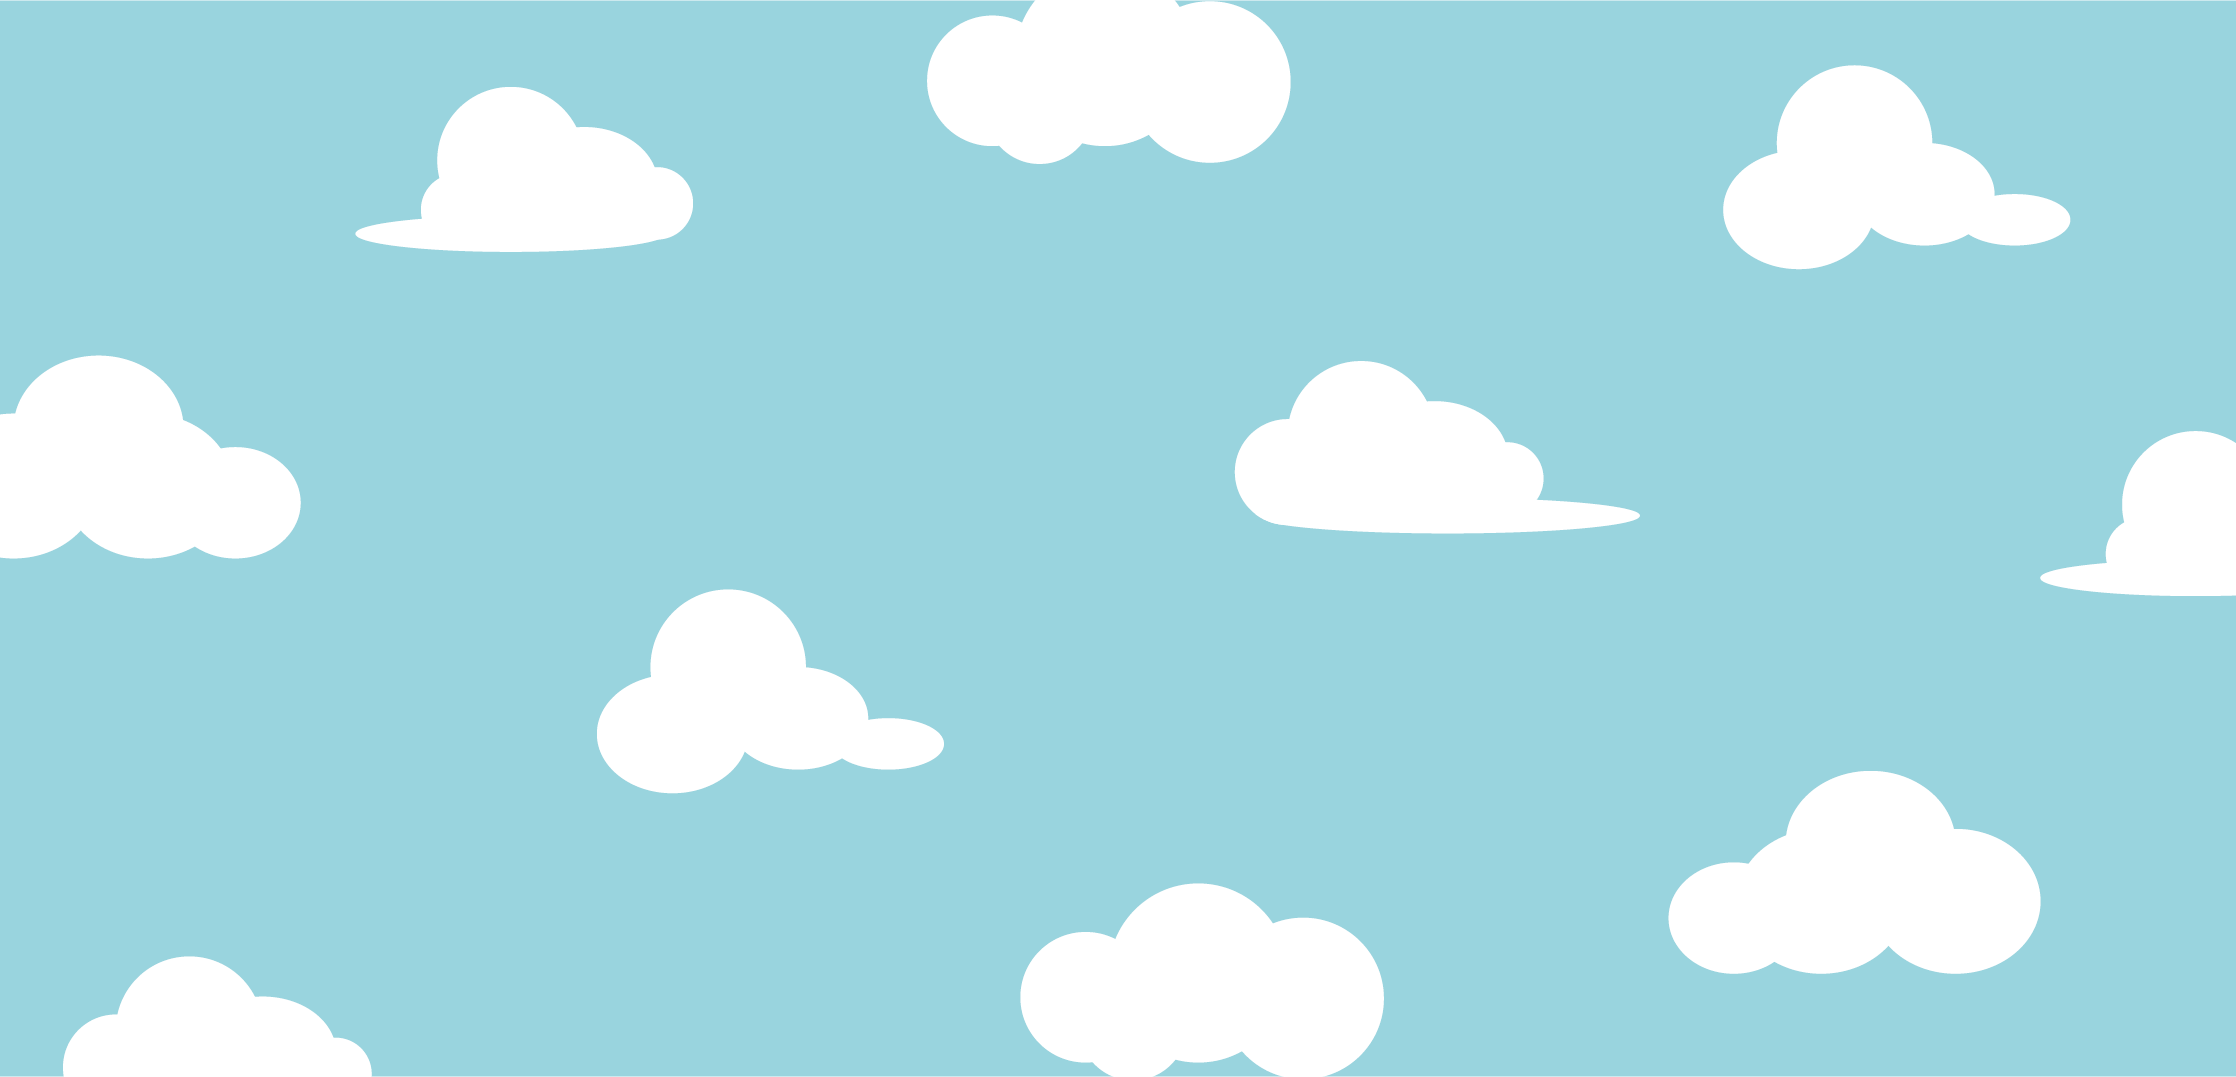
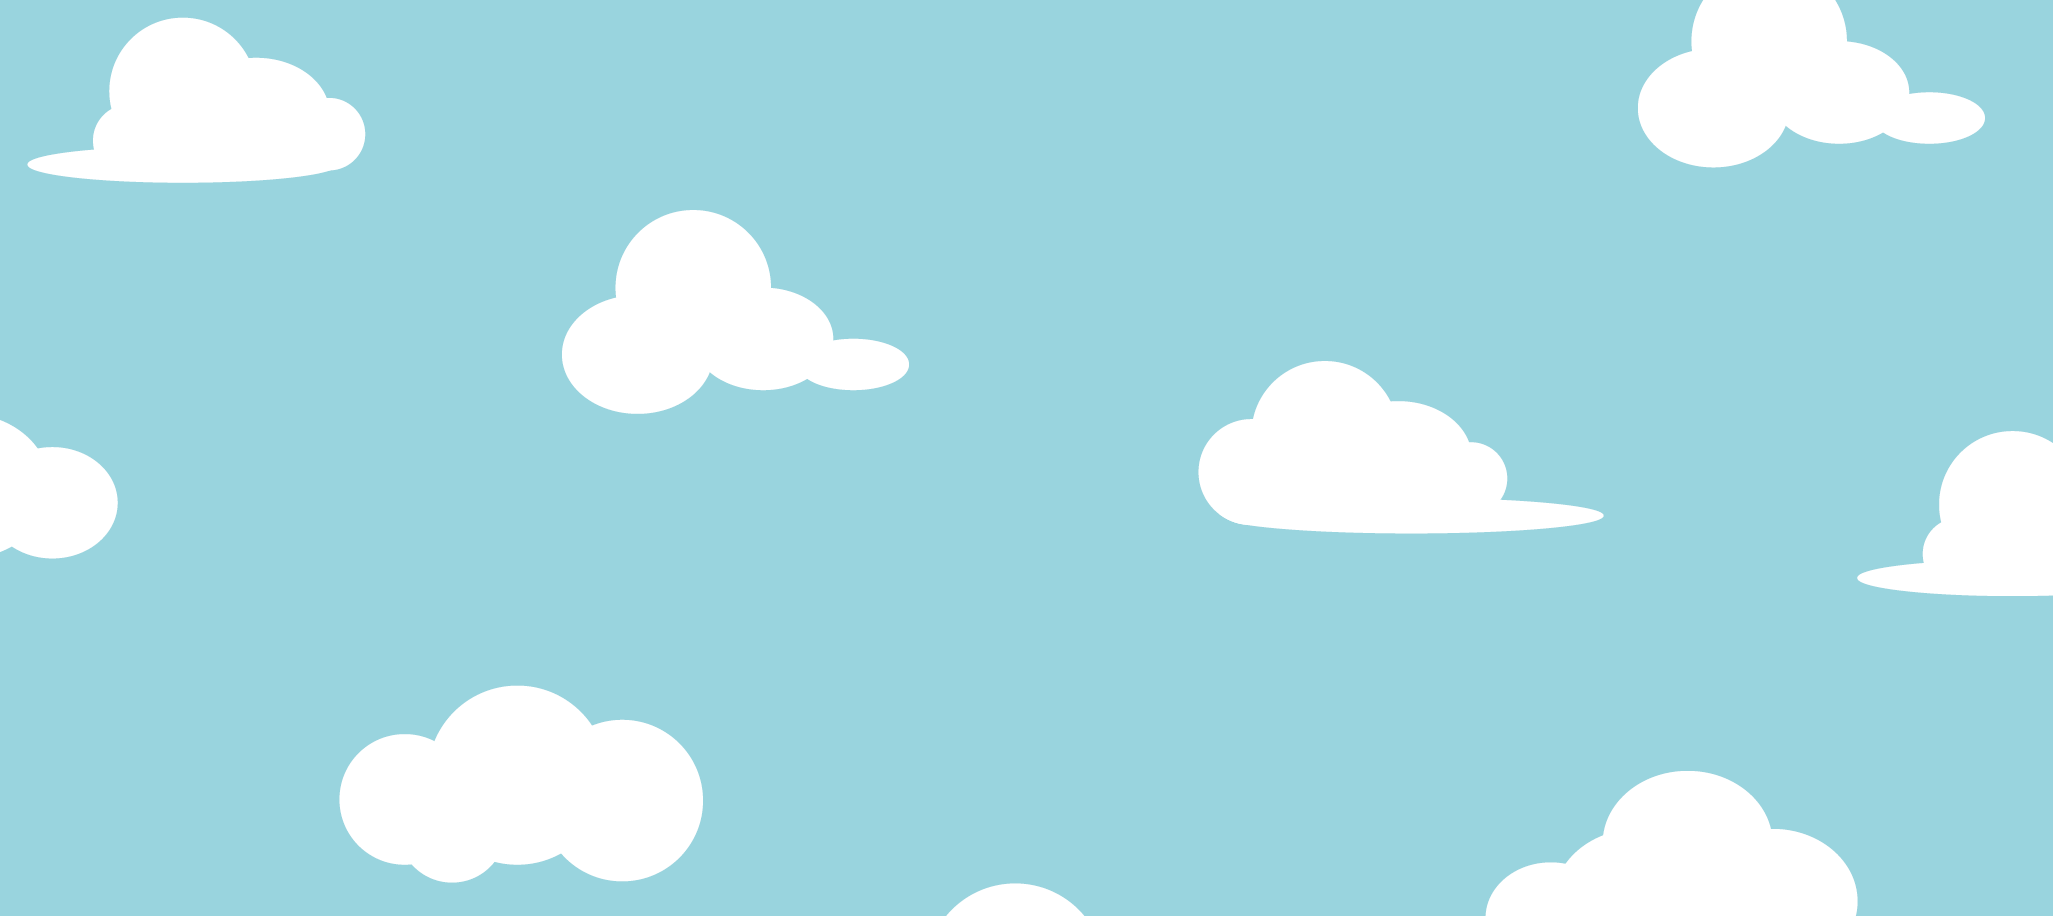
færdige site

diff --git a/index.html b/index.html
@@ -86,6 +86,9 @@
         </div>
       </nav>
     </header>
+    <div class="sky_background">
+      <img src="img/sky_background.webp" alt="" width="100%" height="25%">
+    </div>
     <section id="splash" class="mt-5 d-flex justify-content-center pt-2">
       <img src="svg/pelle.svg" alt="superhelt" class="pelle col-2" />
       <img src="svg/mille.svg" alt="superhelt" class="mille col-2" />
@@ -210,7 +213,7 @@
           <img src="img/koekken.webp" alt="far og datter i køkkenet" class="ig_stagger rounded" width="250" height="250"/>
         </div>
         <div class="ig_billede col-6 col-md-4 col-lg-3 mb-2 p-2">
-          <img src="img/mille_some.jpg" alt="illustration af en superhelt" class="ig_stagger rounded" width="250" height="250" /> 
+          <img src="svg/mille_some.svg" alt="illustration af en superhelt" class="ig_stagger rounded" width="250" height="250" /> 
         </div>
         <div class="col-6 col-md-4 col-lg-3 mb-2 p-2">
           <img src="img/kapasto.png" alt="pasta pesto ret" class="ig_stagger rounded" width="250" height="250" />
@@ -225,7 +228,7 @@
             <img src="img/maling.webp" alt="en børnehånd med maling" class="ig_stagger rounded" width="250" height="250" />
           </div>
           <div class="col-6 col-md-4 col-lg-3 mb-2 p-2">
-            <img src="img/pelle_some-20.jpg" alt="illustration af en superhelt" class="ig_stagger rounded" width="250" height="250" />
+            <img src="svg/pelle_some.svg" alt="illustration af en superhelt" class="ig_stagger rounded" width="250" height="250" />
           </div>
           <div class="col-6 col-md-4 col-lg-3 mb-2 p-2">
             <img src="img/powerpasta.webp" alt="pasta ret med tomat og ost" class="ig_stagger" width="250" height="250" />
@@ -264,7 +267,7 @@
         </li>
           </ul>
 
-          <p class="footer_text text-center col-12 pt-3">Denne side er lavet i forbindelse med et studieprojekt på Københavns Erhvervsakademi</p>
+          <p class="footer_text text-center col-12 pt-3">Denne side er lavet et studieprojekt på Københavns Erhvervsakademi</p>
     </footer>
 
   

diff --git a/style.css b/style.css
@@ -74,10 +74,14 @@ body {
 .snappy_container {
   scroll-snap-type: y mandatory;
 }
-
+.sky_background {
+  position: fixed;
+  z-index: -1;
+}
 #splash {
   width: 100%;
   height: 180px;
+  /* background-image: url(img/sky_background.png); */
 }
 
 .tini {
@@ -95,6 +99,8 @@ body {
 }
 .pasta_dreng {
   overflow-x: hidden;
+  z-index: 1;
+  background-color: var(--bg-color);
 }
 
 .img_pasta_billede {
